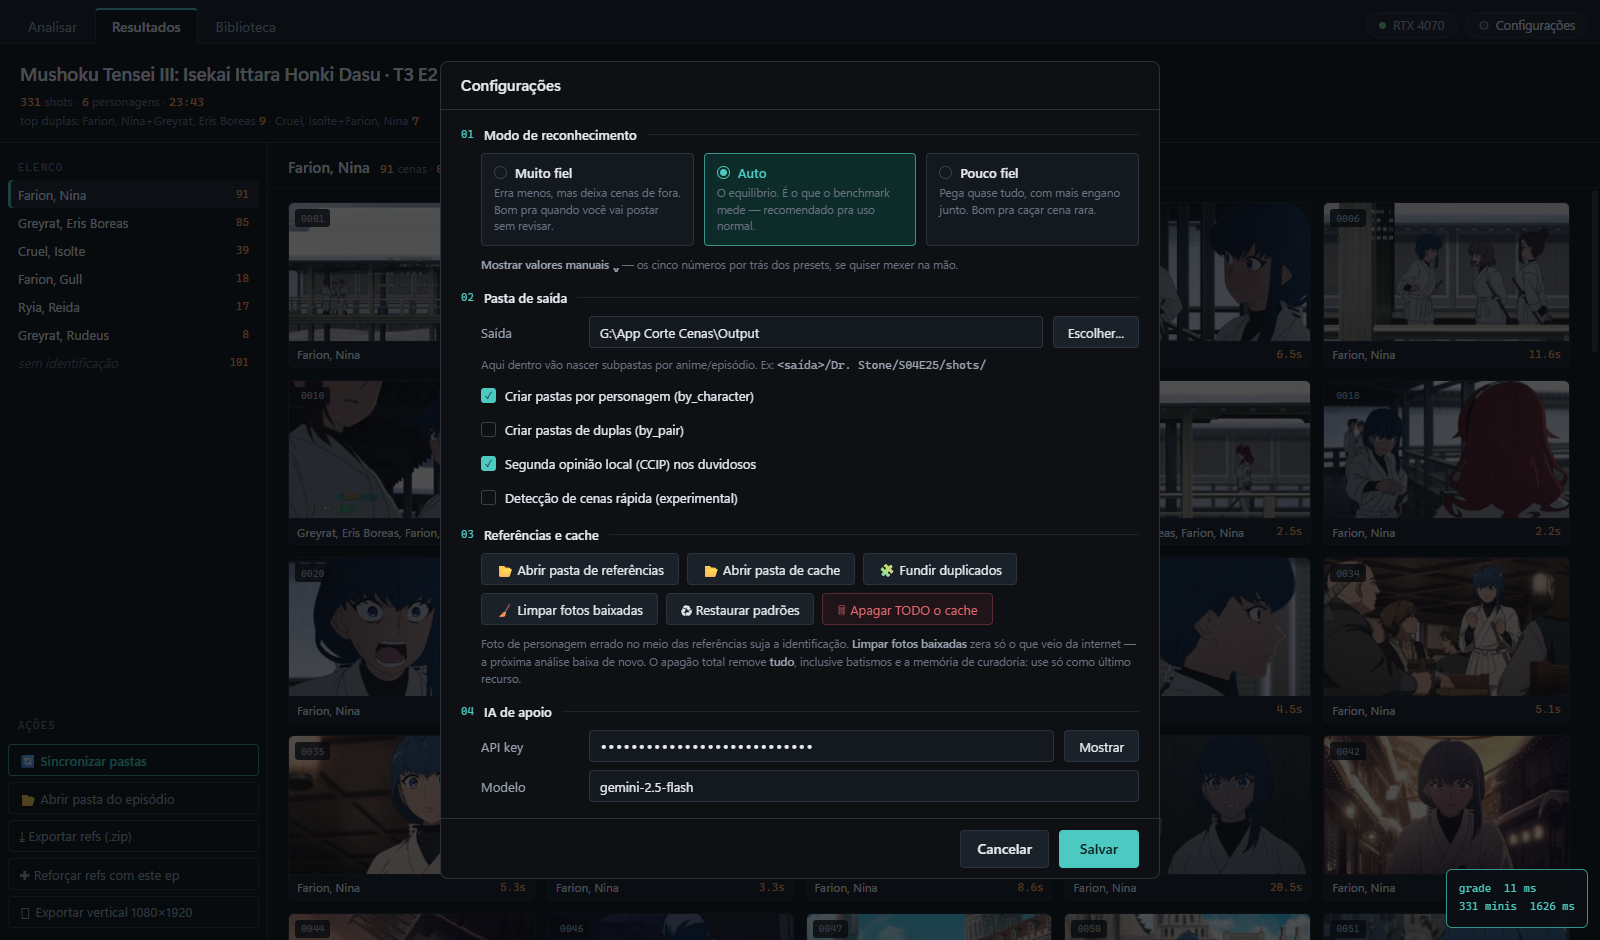
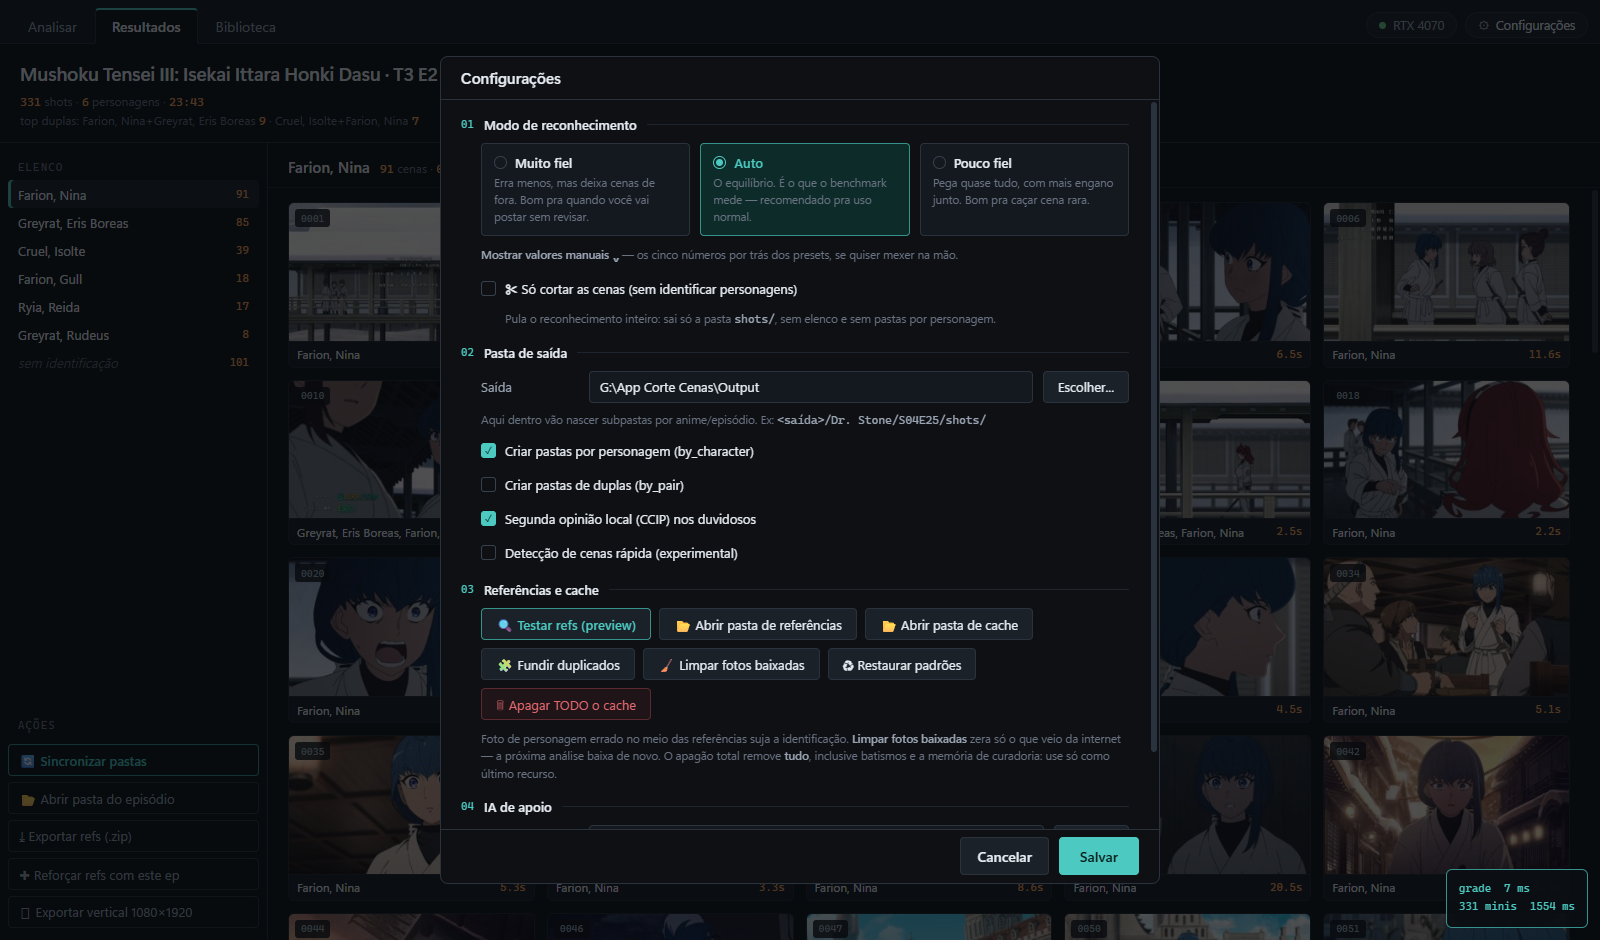
"So cortar" e "Testar refs" saem da aba Analisar e vao pras Configuracoes
O Levi disse que esses dois botoes nao deviam estar ali, e a maquete
confirma: na secao 02 (Analise) as palavras "cortar" e "Testar refs"
aparecem ZERO vezes — ela tem so os tres botoes. Fui eu que trouxe os dois
do spec cirurgico antigo, escrito pra versao Qt, sem conferir contra o
desenho novo.

"So cortar as cenas" foi pro grupo Modo de reconhecimento, que e onde ele
pertence: e o caso extremo do reconhecimento (nao reconhecer nada), nao uma
acao do dia a dia. Ganhou a explicacao do que faz de verdade — sai so a
pasta shots/, sem elenco.

"Testar refs (preview)" foi pro grupo Referencias e cache, junto dos outros
botoes de refs, e em destaque porque e o unico que INSPECIONA em vez de
mexer.

A secao 02 agora bate com a maquete: tres botoes e mais nada.

Changed region(s): [[0.2812, 0.0617, 0.75, 0.9564], [0.6562, 0.4011, 0.6875, 0.4319]]

diff --git a/poc_web/app_poc.html b/poc_web/app_poc.html
@@ -434,12 +434,9 @@ body{background:var(--bg);color:var(--txt);font-family:var(--sans);font-size:13p
 
     <div class="secao">
       <div class="cabecalho"><span class="num">02</span><span class="tit">Análise</span><span class="traco"></span></div>
-      <div class="corpo" style="gap:10px">
-        <div class="linha" style="gap:14px">
-          <span class="caixa" id="so_cortar"><span class="qd"></span>✂ Só cortar as cenas (sem identificar personagens)</span>
-          <span class="btn fantasma">Testar refs (preview)</span>
-        </div>
-      </div>
+      <!-- "Só cortar as cenas" e "Testar refs" NÃO ficam aqui: na maquete a
+           seção 02 tem só os três botões. Os dois são ajuste, não ação do
+           dia a dia — moraram nas Configurações. -->
       <div class="acoes">
         <div class="btn vazado">🔍&nbsp; Modo Descoberta</div>
         <span style="flex:1"></span>
@@ -571,6 +568,10 @@ body{background:var(--bg);color:var(--txt);font-family:var(--sans);font-size:13p
             <div class="exp">Pega quase tudo, com mais engano junto. Bom pra caçar cena rara.</div></div>
         </div>
         <div class="nota"><b>Mostrar valores manuais ⌄</b> — os cinco números por trás dos presets, se quiser mexer na mão.</div>
+        <div class="corpo" style="padding-top:2px">
+          <span class="caixa" id="so_cortar"><span class="qd"></span>✂ Só cortar as cenas (sem identificar personagens)</span>
+          <div class="nota" style="padding-left:24px">Pula o reconhecimento inteiro: sai só a pasta <span style="font-family:var(--mono);color:var(--dim)">shots/</span>, sem elenco e sem pastas por personagem.</div>
+        </div>
       </div>
 
       <div class="secao">
@@ -593,6 +594,7 @@ body{background:var(--bg);color:var(--txt);font-family:var(--sans);font-size:13p
       <div class="secao">
         <div class="cabecalho"><span class="num">03</span><span class="tit">Referências e cache</span><span class="traco"></span></div>
         <div class="botoeira">
+          <div class="btn-campo" style="border-color:var(--accent-dim);color:var(--accent);font-weight:600">🔍 Testar refs (preview)</div>
           <div class="btn-campo">📂 Abrir pasta de referências</div>
           <div class="btn-campo">📂 Abrir pasta de cache</div>
           <div class="btn-campo">🧩 Fundir duplicados</div>
